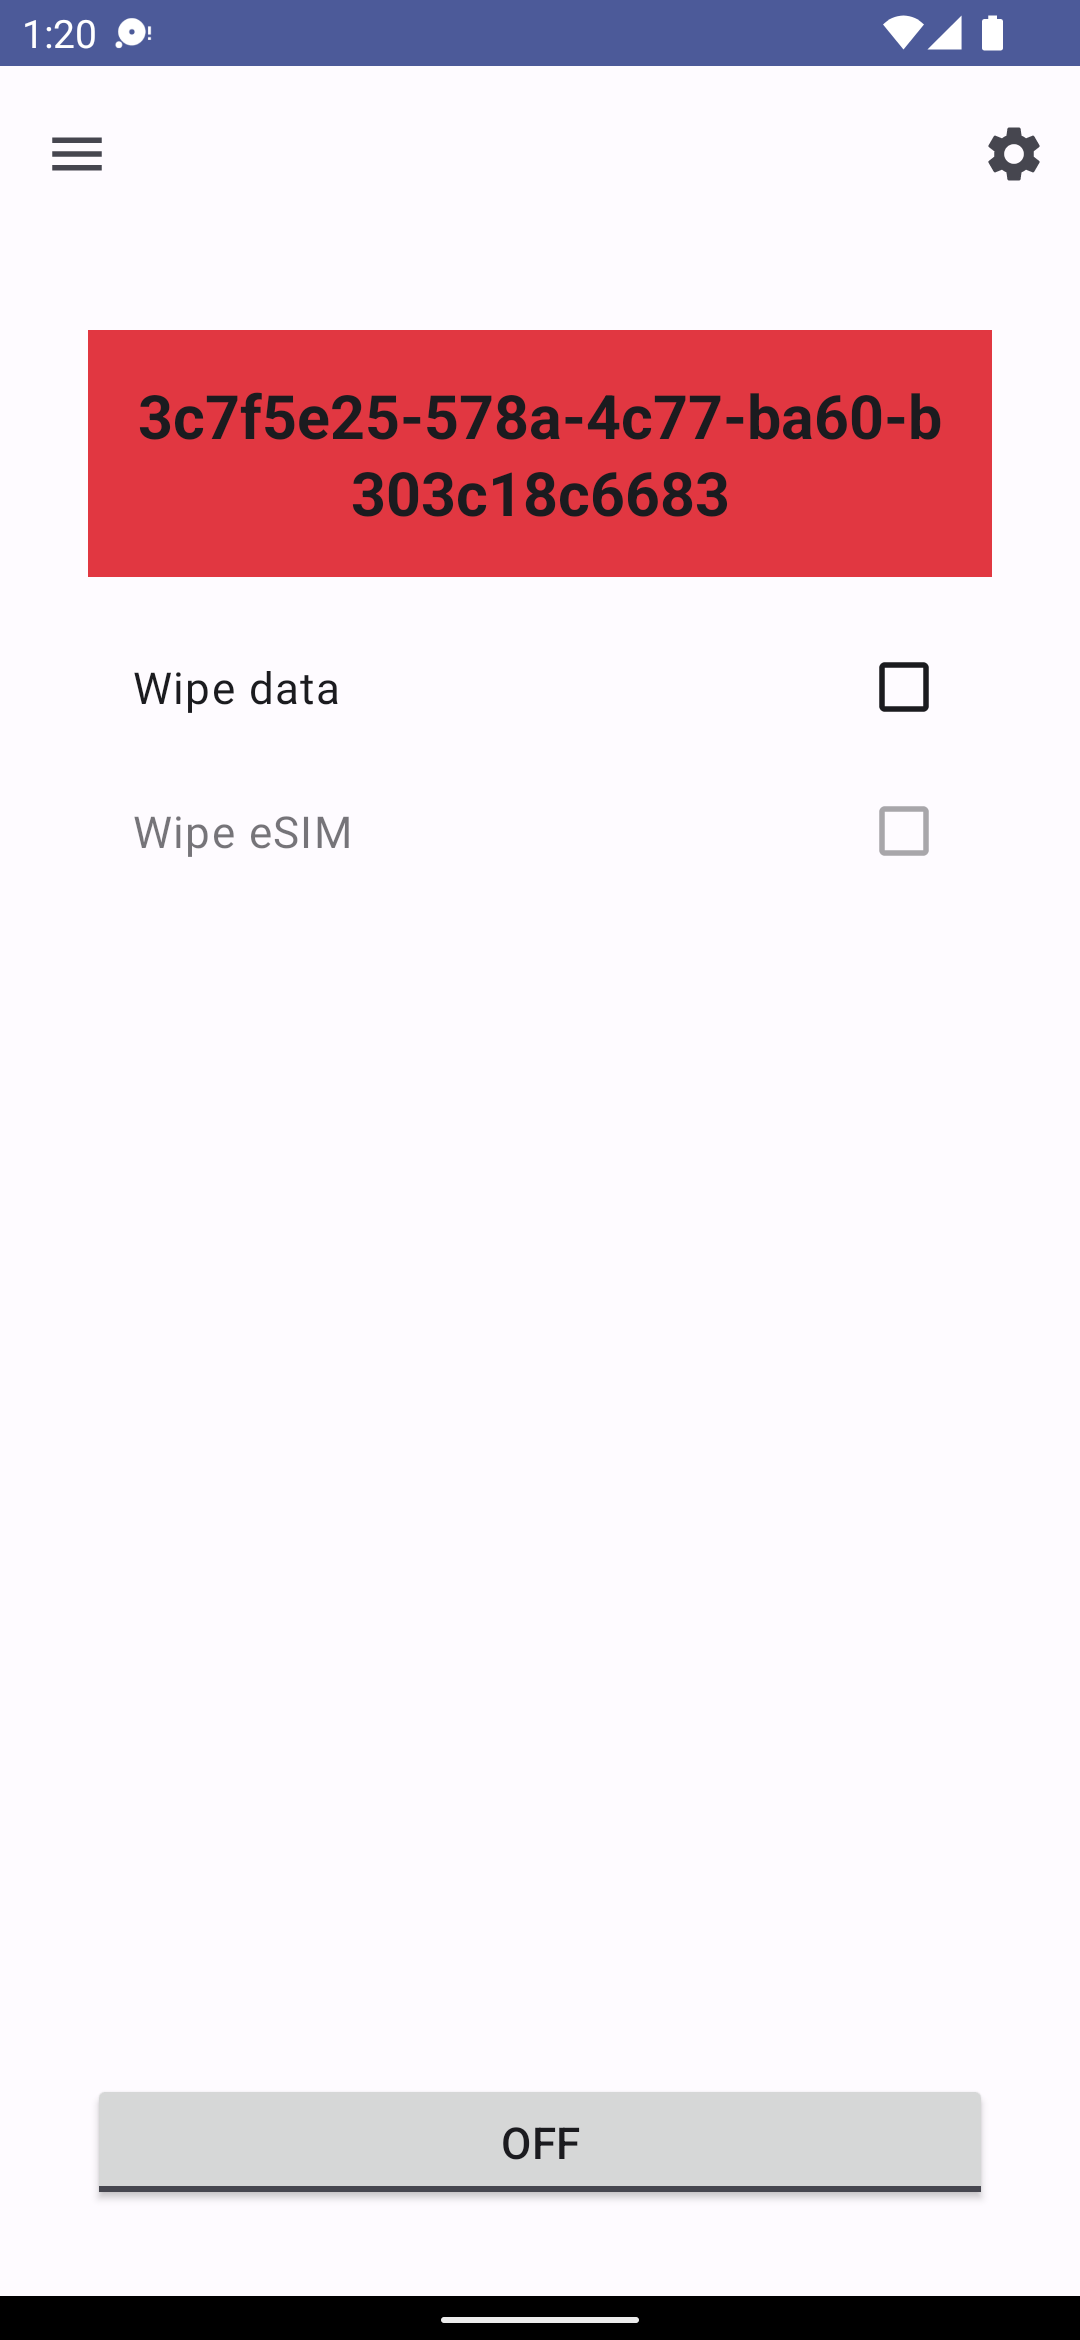
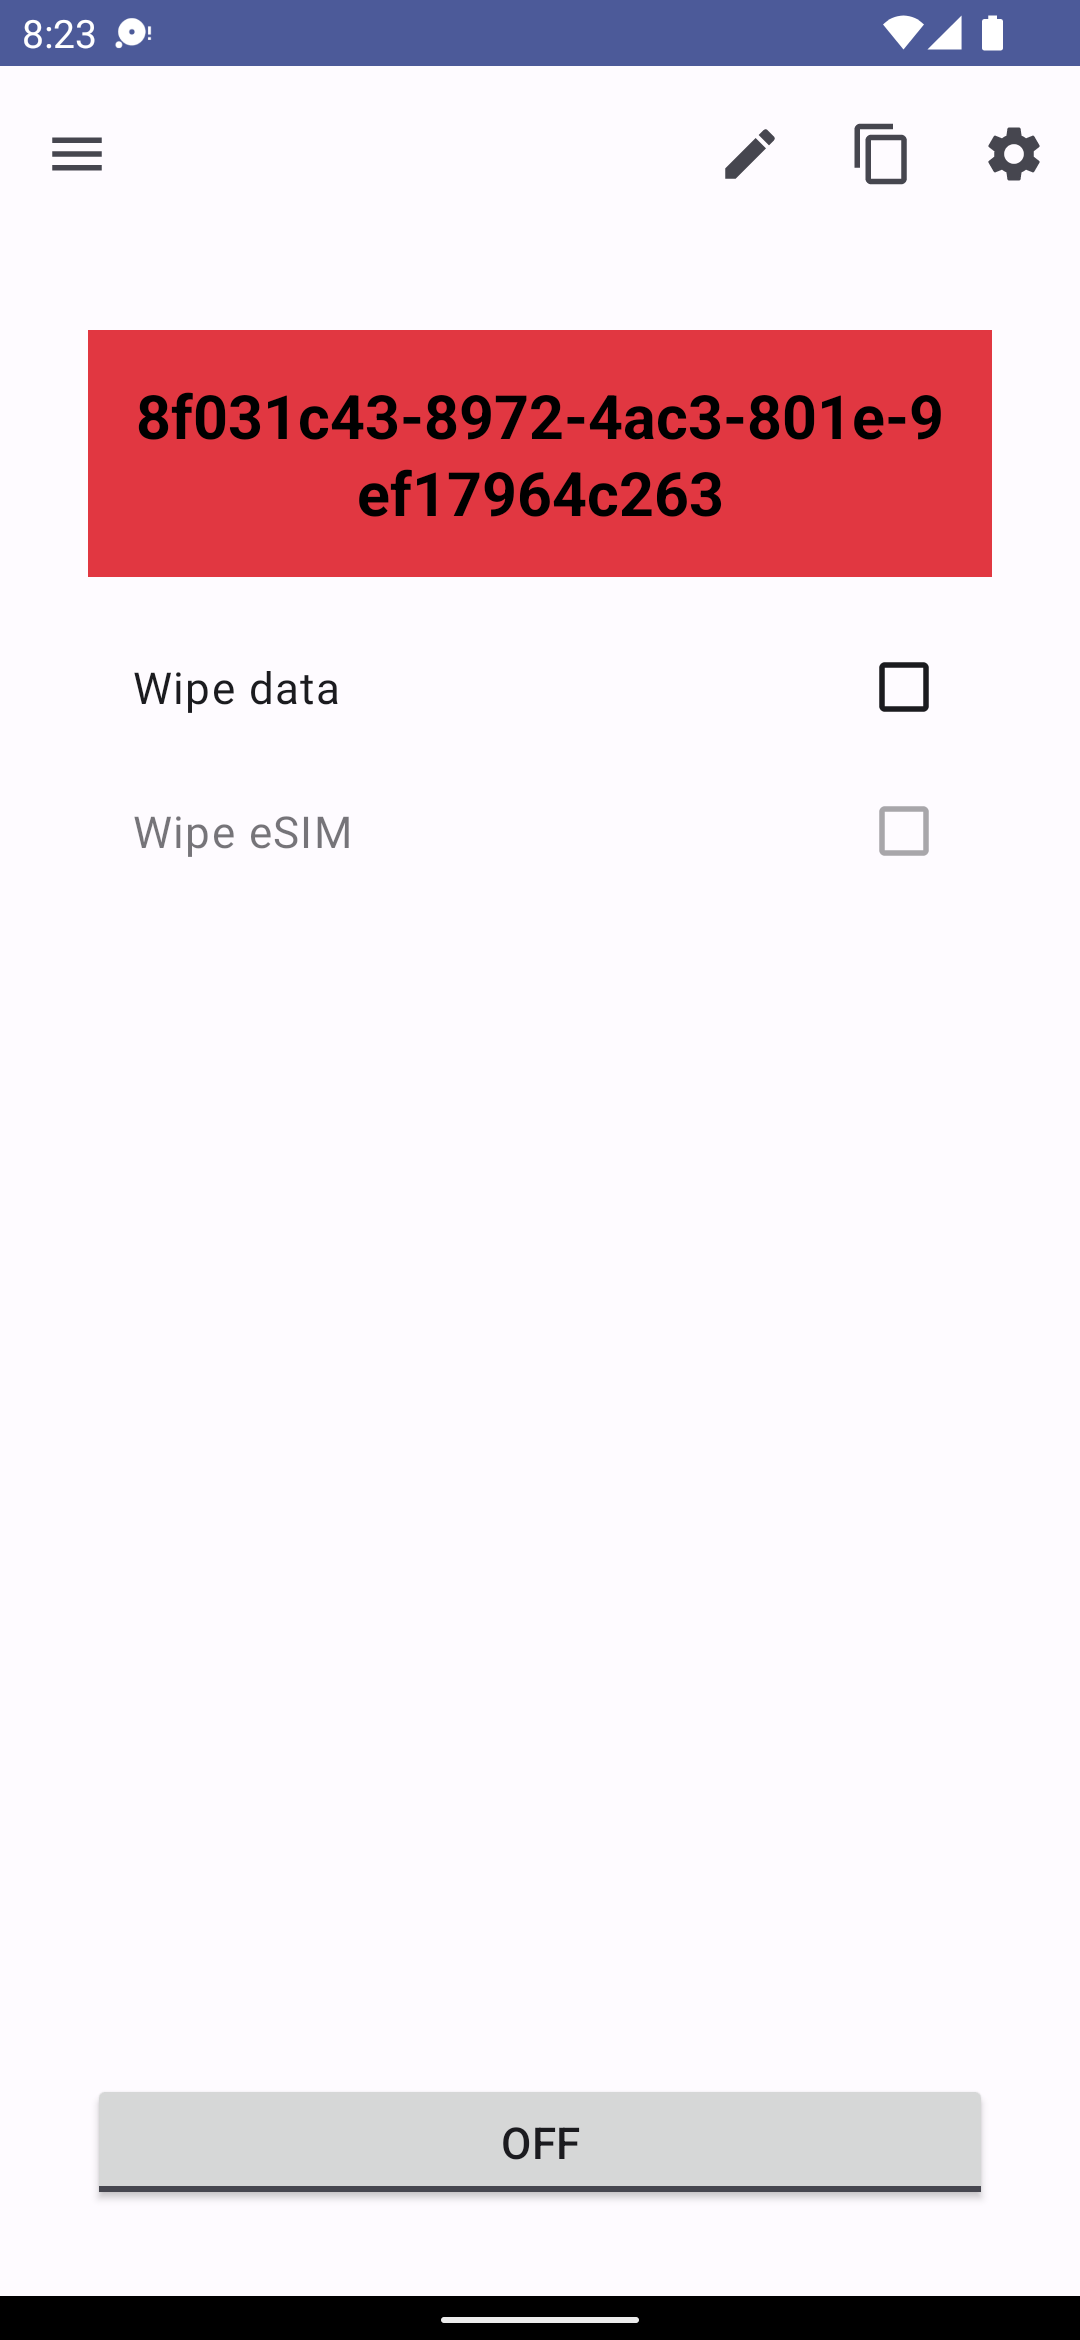
edit secret

Changed region(s): [[0.1222, 0.156, 0.8861, 0.2184], [0.7944, 0.0312, 0.8556, 0.0936], [0.6722, 0.0624, 0.7028, 0.0936]]

diff --git a/app/src/main/java/me/lucky/wasted/MainActivity.kt b/app/src/main/java/me/lucky/wasted/MainActivity.kt
@@ -1,11 +1,19 @@
 package me.lucky.wasted
 
+import android.content.ClipData
+import android.content.ClipboardManager
+import android.content.SharedPreferences
 import android.os.Bundle
+import androidx.appcompat.app.AlertDialog
 import androidx.appcompat.app.AppCompatActivity
 import androidx.biometric.BiometricManager
 import androidx.biometric.BiometricPrompt
 import androidx.core.content.ContextCompat
+import androidx.core.widget.doAfterTextChanged
 import androidx.fragment.app.Fragment
+import com.google.android.material.dialog.MaterialAlertDialogBuilder
+import com.google.android.material.snackbar.Snackbar
+import com.google.android.material.textfield.TextInputLayout
 
 import me.lucky.wasted.databinding.ActivityMainBinding
 import me.lucky.wasted.fragment.*
@@ -15,6 +23,11 @@ open class MainActivity : AppCompatActivity() {
     private lateinit var binding: ActivityMainBinding
     private lateinit var prefs: Preferences
     private lateinit var prefsdb: Preferences
+    private val clipboardManager by lazy { getSystemService(ClipboardManager::class.java) }
+
+    private val prefsListener = SharedPreferences.OnSharedPreferenceChangeListener { _, key ->
+        prefs.copyTo(prefsdb, key)
+    }
 
     override fun onCreate(savedInstanceState: Bundle?) {
         super.onCreate(savedInstanceState)
@@ -74,6 +87,16 @@ open class MainActivity : AppCompatActivity() {
         return true
     }
 
+    override fun onStart() {
+        super.onStart()
+        prefs.registerListener(prefsListener)
+    }
+
+    override fun onStop() {
+        super.onStop()
+        prefs.unregisterListener(prefsListener)
+    }
+
     private fun setup() = binding.apply {
         appBar.setNavigationOnClickListener {
             drawer.open()
@@ -88,6 +111,14 @@ open class MainActivity : AppCompatActivity() {
                     })
                     true
                 }
+                R.id.top_copy -> {
+                    copySecret()
+                    true
+                }
+                R.id.top_edit -> {
+                    editSecret()
+                    true
+                }
                 else -> false
             }
         }
@@ -99,11 +130,13 @@ open class MainActivity : AppCompatActivity() {
         }
     }
 
-    private fun replaceFragment(f: Fragment) =
+    private fun replaceFragment(f: Fragment) {
+        binding.appBar.menu.setGroupVisible(R.id.top_group_main, f is MainFragment)
         supportFragmentManager
             .beginTransaction()
             .replace(binding.fragment.id, f)
             .commit()
+    }
 
     private fun getFragment(id: Int) = when (id) {
         R.id.nav_main -> MainFragment()
@@ -112,5 +145,32 @@ open class MainActivity : AppCompatActivity() {
         R.id.nav_trigger_lock -> LockFragment()
         R.id.top_settings -> SettingsFragment()
         else -> MainFragment()
+    }
+
+    private fun copySecret() {
+        clipboardManager.setPrimaryClip(ClipData.newPlainText("", prefs.secret))
+        Snackbar.make(binding.fragment, R.string.copied_popup, Snackbar.LENGTH_SHORT).show()
+    }
+
+    private fun editSecret() {
+        val view = layoutInflater.inflate(R.layout.dialog_edit_secret, null)
+        val secret = view.findViewById<TextInputLayout>(R.id.secret)
+        val dialog = MaterialAlertDialogBuilder(this)
+            .setTitle(R.string.edit)
+            .setView(view)
+            .setPositiveButton(android.R.string.cancel) { _, _ -> }
+            .setNegativeButton(android.R.string.ok) { _, _ ->
+                if (secret.error != null) return@setNegativeButton
+                prefs.secret = secret.editText?.text?.toString()?.trim() ?: return@setNegativeButton
+                replaceFragment(MainFragment())
+            }
+            .create()
+        secret.editText?.setText(prefs.secret)
+        secret.editText?.doAfterTextChanged {
+            secret.error = if (it?.toString()?.isBlank() == true)
+                getString(R.string.edit_secret_error) else null
+            dialog.getButton(AlertDialog.BUTTON_NEGATIVE).isEnabled = secret.error == null
+        }
+        dialog.show()
     }
 }

diff --git a/app/src/main/java/me/lucky/wasted/fragment/MainFragment.kt b/app/src/main/java/me/lucky/wasted/fragment/MainFragment.kt
@@ -1,8 +1,6 @@
 package me.lucky.wasted.fragment
 
 import android.app.Activity
-import android.content.ClipData
-import android.content.ClipboardManager
 import android.content.Context
 import android.content.SharedPreferences
 import android.os.Bundle
@@ -11,7 +9,6 @@ import android.view.View
 import android.view.ViewGroup
 import androidx.activity.result.contract.ActivityResultContracts
 import androidx.fragment.app.Fragment
-import com.google.android.material.snackbar.Snackbar
 import java.util.*
 
 import me.lucky.wasted.Preferences
@@ -25,7 +22,6 @@ class MainFragment : Fragment() {
     private lateinit var ctx: Context
     private lateinit var prefs: Preferences
     private lateinit var prefsdb: Preferences
-    private val clipboardManager by lazy { ctx.getSystemService(ClipboardManager::class.java) }
     private val admin by lazy { DeviceAdminManager(ctx) }
 
     private val prefsListener = SharedPreferences.OnSharedPreferenceChangeListener { _, key ->
@@ -71,10 +67,6 @@ class MainFragment : Fragment() {
     }
 
     private fun setup() = binding.apply {
-        secret.setOnLongClickListener {
-            copySecret()
-            true
-        }
         wipeData.setOnCheckedChangeListener { _, isChecked ->
             prefs.isWipeData = isChecked
             wipeEmbeddedSim.isEnabled = isChecked
@@ -85,11 +77,6 @@ class MainFragment : Fragment() {
         toggle.setOnCheckedChangeListener { _, isChecked ->
             if (isChecked) requestAdmin() else setOff()
         }
-    }
-
-    private fun copySecret() {
-        clipboardManager.setPrimaryClip(ClipData.newPlainText("", prefs.secret))
-        Snackbar.make(binding.secret, R.string.copied_popup, Snackbar.LENGTH_SHORT).show()
     }
 
     private fun setOn() {
